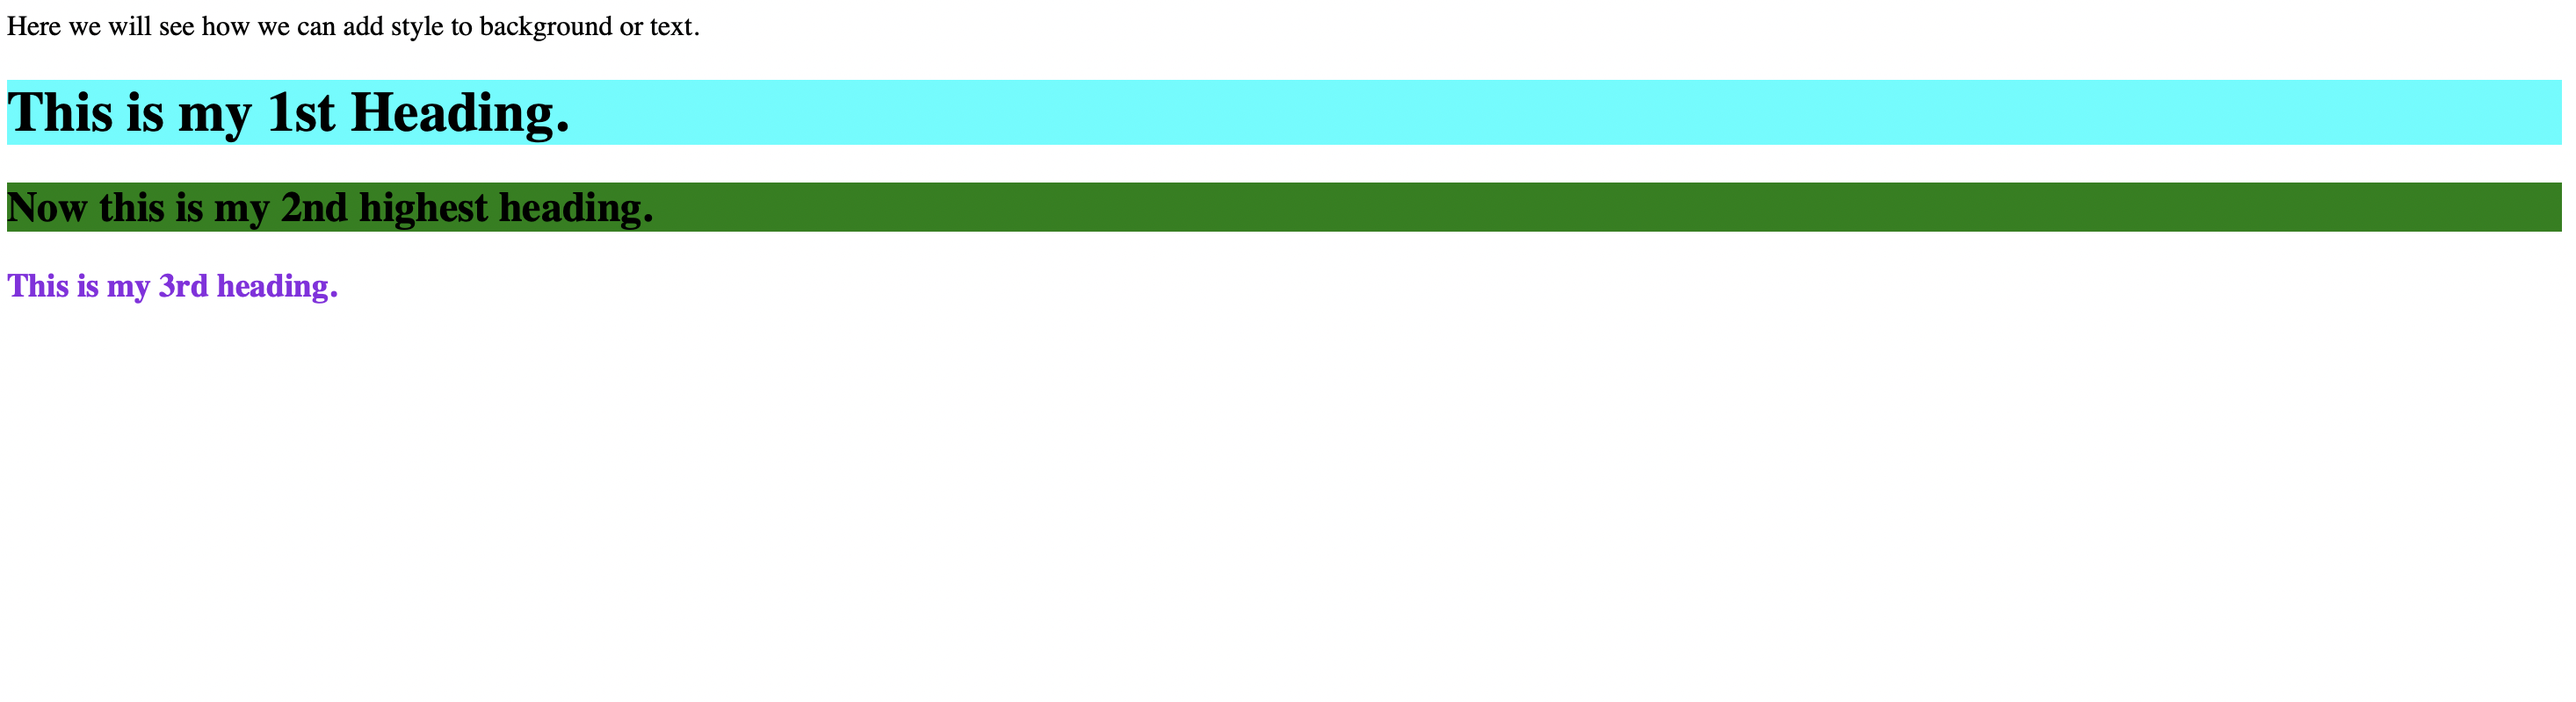
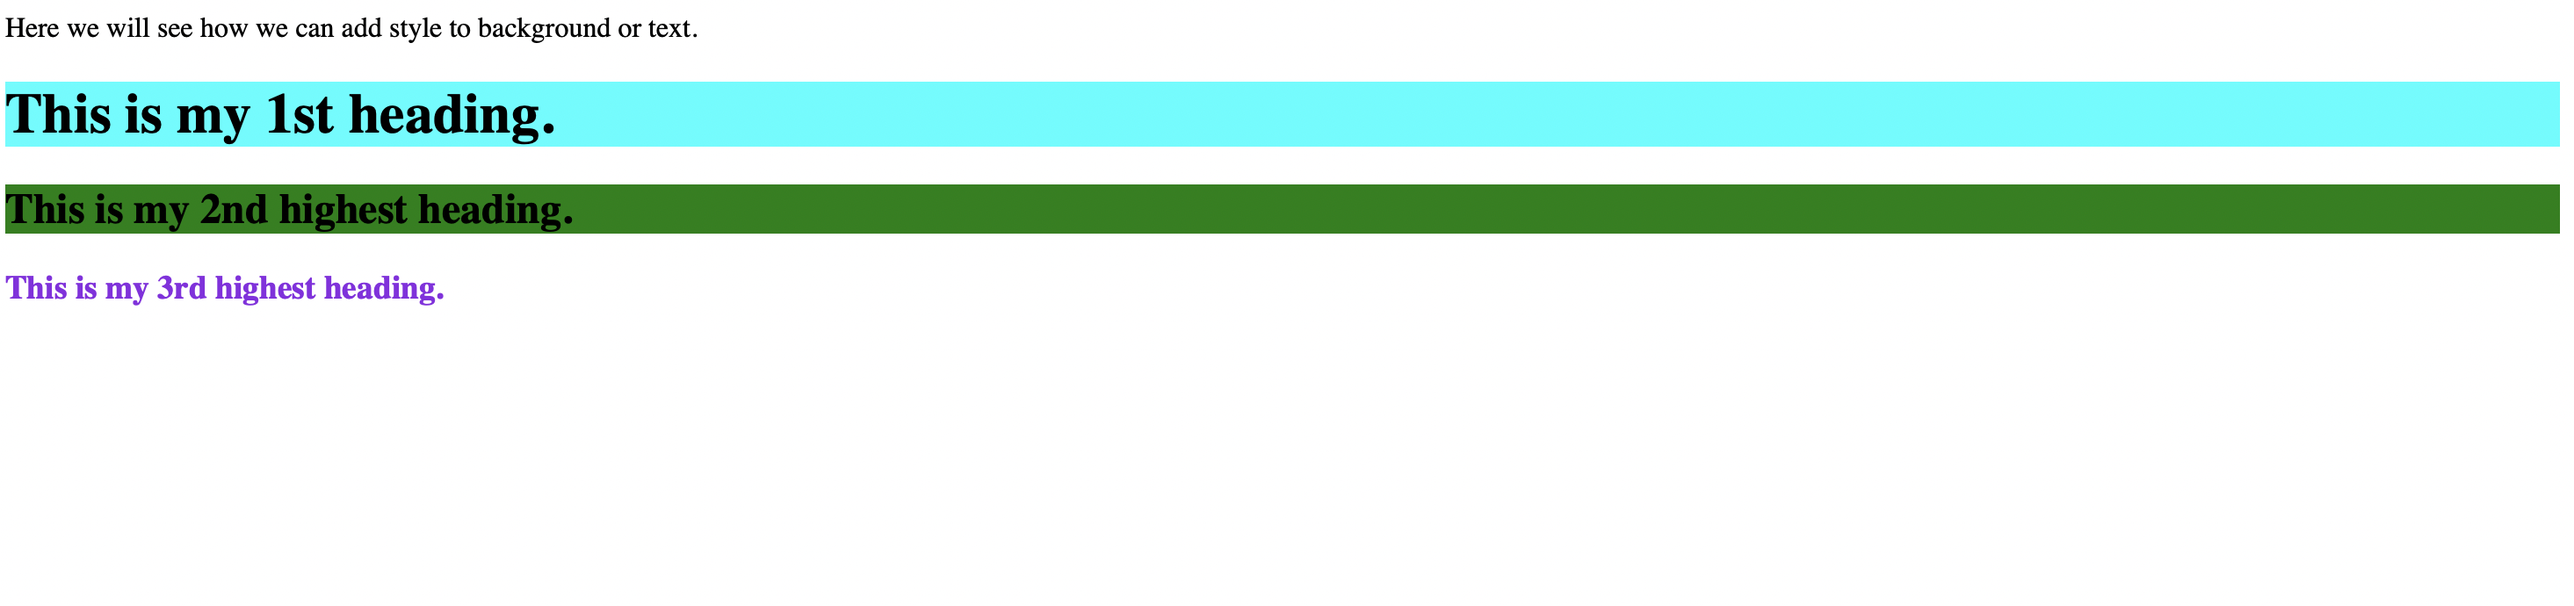
style.html

Changed region(s): [[0.0, 0.0913, 1.0, 0.4261], [0.0, 0.4565, 0.1863, 0.5174], [0.0, 0.0304, 0.2795, 0.0609]]

diff --git a/style/style.html b/style/style.html
@@ -8,9 +8,9 @@
 
     <body>
 
-        <h1 style="background-color: aqua;">This is my 1st Heading.</h1>                 <!-- Here by using the "style" attribute in heading with "background-color" we can do coloring the background of the text. -->
-        <h2 style="background-color: green;"> Now this is my 2nd highest heading.</h2>
-        <h3 style="color: blueviolet;">This is my 3rd heading.</h3>                      <!-- Here  by using the "style" attribute in heading with "color" , we are only coloring the text. -->
+        <h1 style="background-color: aqua;">This is my 1st heading.</h1>                 <!-- Here by using the "style" attribute in heading with "background-color" we can do coloring the background of the text. -->
+        <h2 style="background-color: green;"> This is my 2nd highest heading.</h2>
+        <h3 style="color: blueviolet;">This is my 3rd highest heading.</h3>              <!-- Here  by using the "style" attribute in heading with "color" , we are only coloring the text. -->
 
     </body>
 
